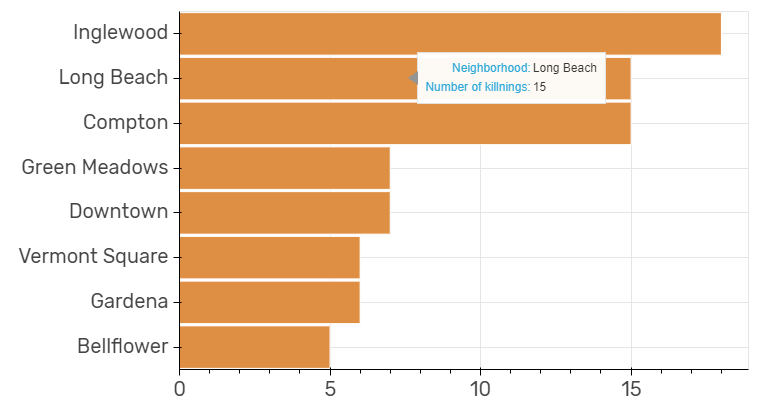
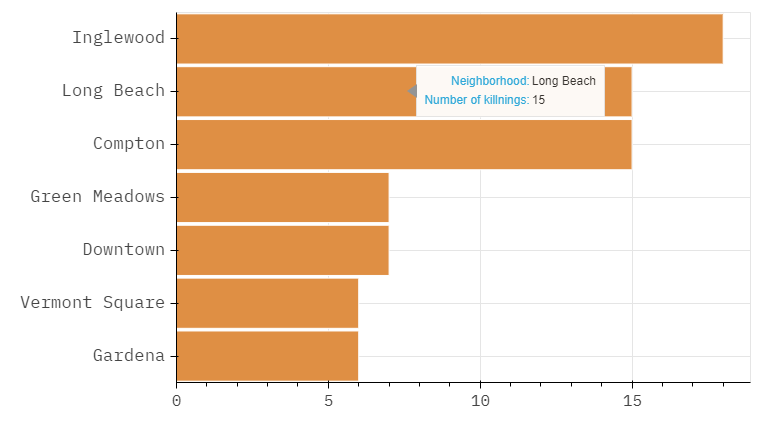
:tada: new bokeh plot post

diff --git a/content/today-i-learned-posts/bokeh-plots-embed/neighborhoods.html b/content/today-i-learned-posts/bokeh-plots-embed/neighborhoods.html
@@ -34,14 +34,14 @@
           
           
             
-              <div class="bk-root" id="43f9fee5-aa90-4d03-8cd5-edcdb8f7770a" data-root-id="3828"></div>
+              <div class="bk-root" id="4d2d932f-ab7c-42f8-bf9d-7b5592c7b0e7" data-root-id="5639"></div>
             
           
         
       
       
-        <script type="application/json" id="4161">
-          {"6f5ea0eb-4483-4d30-85d0-3cb9bc693733":{"roots":{"references":[{"attributes":{"below":[{"id":"3837"}],"center":[{"id":"3840"},{"id":"3843"}],"left":[{"id":"3841"}],"plot_height":400,"plot_width":750,"renderers":[{"id":"3861"}],"title":{"id":"3990"},"toolbar":{"id":"3851"},"toolbar_location":null,"x_range":{"id":"3829"},"x_scale":{"id":"3833"},"y_range":{"id":"3831"},"y_scale":{"id":"3835"}},"id":"3828","subtype":"Figure","type":"Plot"},{"attributes":{},"id":"3842","type":"CategoricalTicker"},{"attributes":{"data":{"index":["Bellflower","Gardena","Vermont Square","Downtown","Green Meadows","Compton","Long Beach","Inglewood"],"neighborhood":[5,6,6,7,7,15,15,18]},"selected":{"id":"1129"},"selection_policy":{"id":"1128"}},"id":"1002","type":"ColumnDataSource"},{"attributes":{"formatter":{"id":"3994"},"major_label_text_font":"Rubik","major_label_text_font_size":"15pt","ticker":{"id":"3838"}},"id":"3837","type":"LinearAxis"},{"attributes":{},"id":"3849","type":"HelpTool"},{"attributes":{"source":{"id":"1002"}},"id":"3862","type":"CDSView"},{"attributes":{"text":""},"id":"3990","type":"Title"},{"attributes":{"data_source":{"id":"1002"},"glyph":{"id":"3859"},"hover_glyph":null,"muted_glyph":null,"nonselection_glyph":{"id":"3860"},"selection_glyph":null,"view":{"id":"3862"}},"id":"3861","type":"GlyphRenderer"},{"attributes":{},"id":"1129","type":"Selection"},{"attributes":{"formatter":{"id":"3992"},"major_label_text_font":"Rubik","major_label_text_font_size":"15pt","ticker":{"id":"3842"}},"id":"3841","type":"CategoricalAxis"},{"attributes":{"start":0},"id":"3829","type":"DataRange1d"},{"attributes":{},"id":"3838","type":"BasicTicker"},{"attributes":{"factors":["Bellflower","Gardena","Vermont Square","Downtown","Green Meadows","Compton","Long Beach","Inglewood"]},"id":"3831","type":"FactorRange"},{"attributes":{"axis":{"id":"3841"},"dimension":1,"ticker":null},"id":"3843","type":"Grid"},{"attributes":{"fill_alpha":{"value":0.1},"fill_color":{"value":"#DF8F44"},"height":{"value":0.95},"line_alpha":{"value":0.1},"line_color":{"value":"white"},"right":{"field":"neighborhood"},"y":{"field":"index"}},"id":"3860","type":"HBar"},{"attributes":{},"id":"3992","type":"CategoricalTickFormatter"},{"attributes":{},"id":"3994","type":"BasicTickFormatter"},{"attributes":{},"id":"3845","type":"WheelZoomTool"},{"attributes":{"overlay":{"id":"3850"}},"id":"3846","type":"BoxZoomTool"},{"attributes":{"callback":null,"mode":"hline","tooltips":[["Neighborhood","@index"],["Number of killnings","@neighborhood"]]},"id":"3863","type":"HoverTool"},{"attributes":{},"id":"3848","type":"ResetTool"},{"attributes":{"bottom_units":"screen","fill_alpha":0.5,"fill_color":"lightgrey","left_units":"screen","level":"overlay","line_alpha":1.0,"line_color":"black","line_dash":[4,4],"line_width":2,"render_mode":"css","right_units":"screen","top_units":"screen"},"id":"3850","type":"BoxAnnotation"},{"attributes":{},"id":"1128","type":"UnionRenderers"},{"attributes":{"axis":{"id":"3837"},"ticker":null},"id":"3840","type":"Grid"},{"attributes":{},"id":"3833","type":"LinearScale"},{"attributes":{},"id":"3844","type":"PanTool"},{"attributes":{},"id":"3847","type":"SaveTool"},{"attributes":{"fill_color":{"value":"#DF8F44"},"height":{"value":0.95},"line_color":{"value":"white"},"right":{"field":"neighborhood"},"y":{"field":"index"}},"id":"3859","type":"HBar"},{"attributes":{},"id":"3835","type":"CategoricalScale"},{"attributes":{"active_drag":"auto","active_inspect":"auto","active_multi":null,"active_scroll":"auto","active_tap":"auto","tools":[{"id":"3844"},{"id":"3845"},{"id":"3846"},{"id":"3847"},{"id":"3848"},{"id":"3849"},{"id":"3863"}]},"id":"3851","type":"Toolbar"}],"root_ids":["3828"]},"title":"Bokeh Application","version":"2.0.2"}}
+        <script type="application/json" id="6017">
+          {"92e22679-9980-4f89-a33d-907d8681f93e":{"roots":{"references":[{"attributes":{"below":[{"id":"5648"}],"center":[{"id":"5651"},{"id":"5654"}],"left":[{"id":"5652"}],"plot_height":400,"plot_width":750,"renderers":[{"id":"5672"}],"title":{"id":"5846"},"toolbar":{"id":"5662"},"toolbar_location":null,"x_range":{"id":"5640"},"x_scale":{"id":"5644"},"y_range":{"id":"5642"},"y_scale":{"id":"5646"}},"id":"5639","subtype":"Figure","type":"Plot"},{"attributes":{"start":0},"id":"5640","type":"DataRange1d"},{"attributes":{},"id":"5644","type":"LinearScale"},{"attributes":{},"id":"5660","type":"HelpTool"},{"attributes":{"data":{"index":["Gardena","Vermont Square","Downtown","Green Meadows","Compton","Long Beach","Inglewood"],"neighborhood":[6,6,7,7,15,15,18]},"selected":{"id":"5854"},"selection_policy":{"id":"5853"}},"id":"5637","type":"ColumnDataSource"},{"attributes":{"axis":{"id":"5648"},"ticker":null},"id":"5651","type":"Grid"},{"attributes":{},"id":"5853","type":"UnionRenderers"},{"attributes":{"overlay":{"id":"5661"}},"id":"5657","type":"BoxZoomTool"},{"attributes":{"axis":{"id":"5652"},"dimension":1,"ticker":null},"id":"5654","type":"Grid"},{"attributes":{"fill_alpha":{"value":0.1},"fill_color":{"value":"#DF8F44"},"height":{"value":0.95},"line_alpha":{"value":0.1},"line_color":{"value":"white"},"right":{"field":"neighborhood"},"y":{"field":"index"}},"id":"5671","type":"HBar"},{"attributes":{"formatter":{"id":"5850"},"major_label_text_font":"IBM Plex Mono","major_label_text_font_size":"12pt","ticker":{"id":"5649"}},"id":"5648","type":"LinearAxis"},{"attributes":{"data_source":{"id":"5637"},"glyph":{"id":"5670"},"hover_glyph":null,"muted_glyph":null,"nonselection_glyph":{"id":"5671"},"selection_glyph":null,"view":{"id":"5673"}},"id":"5672","type":"GlyphRenderer"},{"attributes":{},"id":"5658","type":"SaveTool"},{"attributes":{"text":""},"id":"5846","type":"Title"},{"attributes":{"bottom_units":"screen","fill_alpha":0.5,"fill_color":"lightgrey","left_units":"screen","level":"overlay","line_alpha":1.0,"line_color":"black","line_dash":[4,4],"line_width":2,"render_mode":"css","right_units":"screen","top_units":"screen"},"id":"5661","type":"BoxAnnotation"},{"attributes":{},"id":"5656","type":"WheelZoomTool"},{"attributes":{"factors":["Gardena","Vermont Square","Downtown","Green Meadows","Compton","Long Beach","Inglewood"]},"id":"5642","type":"FactorRange"},{"attributes":{},"id":"5659","type":"ResetTool"},{"attributes":{},"id":"5649","type":"BasicTicker"},{"attributes":{"fill_color":{"value":"#DF8F44"},"height":{"value":0.95},"line_color":{"value":"white"},"right":{"field":"neighborhood"},"y":{"field":"index"}},"id":"5670","type":"HBar"},{"attributes":{},"id":"5848","type":"CategoricalTickFormatter"},{"attributes":{},"id":"5653","type":"CategoricalTicker"},{"attributes":{},"id":"5850","type":"BasicTickFormatter"},{"attributes":{},"id":"5655","type":"PanTool"},{"attributes":{"source":{"id":"5637"}},"id":"5673","type":"CDSView"},{"attributes":{"callback":null,"mode":"hline","tooltips":[["Neighborhood","@index"],["Number of killnings","@neighborhood"]]},"id":"5674","type":"HoverTool"},{"attributes":{},"id":"5854","type":"Selection"},{"attributes":{"formatter":{"id":"5848"},"major_label_text_font":"IBM Plex Mono","major_label_text_font_size":"13pt","ticker":{"id":"5653"}},"id":"5652","type":"CategoricalAxis"},{"attributes":{},"id":"5646","type":"CategoricalScale"},{"attributes":{"active_drag":"auto","active_inspect":"auto","active_multi":null,"active_scroll":"auto","active_tap":"auto","tools":[{"id":"5655"},{"id":"5656"},{"id":"5657"},{"id":"5658"},{"id":"5659"},{"id":"5660"},{"id":"5674"}]},"id":"5662","type":"Toolbar"}],"root_ids":["5639"]},"title":"Bokeh Application","version":"2.0.2"}}
         </script>
         <script type="text/javascript">
           (function() {
@@ -50,8 +50,8 @@
                 (function(root) {
                   function embed_document(root) {
                     
-                  var docs_json = document.getElementById('4161').textContent;
-                  var render_items = [{"docid":"6f5ea0eb-4483-4d30-85d0-3cb9bc693733","root_ids":["3828"],"roots":{"3828":"43f9fee5-aa90-4d03-8cd5-edcdb8f7770a"}}];
+                  var docs_json = document.getElementById('6017').textContent;
+                  var render_items = [{"docid":"92e22679-9980-4f89-a33d-907d8681f93e","root_ids":["5639"],"roots":{"5639":"4d2d932f-ab7c-42f8-bf9d-7b5592c7b0e7"}}];
                   root.Bokeh.embed.embed_items(docs_json, render_items);
                 
                   }

diff --git a/content/today-i-learned-posts/bokeh-plots-embed/index.md b/content/today-i-learned-posts/bokeh-plots-embed/index.md
@@ -1,24 +1,24 @@
 ---
-title: Bar plots in `Bokeh` and maps with `plotly` in Python + how to embed them
+title: Bar plots in `Bokeh` & How to Embed Them
 author: ''
-date: '2020-06-15'
-categories: [100DaysOfCode, python, bokeh, mapbox, plotly]
-tags: [100DaysOfCode, python, bokeh, mapbox, plotly]
-summary: 'Creating my first simple `bokeh` bar plot-- an interactive version of my plot of the neighborhoods where law enforcement in L.A. County killed the most Black people.'
+date: '2020-06-16'
+categories: [100DaysOfCode, python, bokeh]
+tags: [100DaysOfCode, python, bokeh, L.A. police killings]
+summary: 'Creating my first simple `bokeh` bar plot-- an interactive version of my plot of the [neighborhoods where law enforcement in L.A. County killed the most Black people](/blog/los-angeles-police-killings/#full-graphic).'
 reading_time: yes
 image:
   caption: ''
   focal_point: ''
   preview_only: true
 type: today-i-learned
-draft: true
+draft: false
 ---
+This is my second TIL post about exploring the Los Angeles Times' database of police killings in L.A. County. My first one was about [mapping where each Black person who was killed by police in L.A. County died](/today-i-learned-posts/plotly-mapbox-python-embed/). In my main [blog post](/blog/los-angeles-police-killings) I wanted to learn more about the Black and Latino communities that have been disproportionately affected by police violence and made a [simple graphic](/blog/los-angeles-police-killings/#full-graphic) about it. 
 
-Last week I was exploring the Los Angeles Times' database of police killings in L.A. County, trying to learn more about the Black and Latino communities that have been disproportionately affected by police violence based on data since 2000. I made a simple graphic about it that you can find in my [blog post](/blog/los-angeles-police-killings).
-
-I also used that data to practice some EDA and data visualization in python. I
-<iframe width="850" height="400" frameborder="0" scrolling="no" src="//plotly.com/~isabella-b/1.embed"></iframe>
-<iframe src="/blog/los-angeles-police-killings/lines.html"
+To try out a simple chart for my first experience with `Bokeh`, I decided to recreate this horizontal bar chart I made for the graphic of my main post:
+{{< figure src="neighborhoods.png" title="" lightbox="true" >}}
+Hover to see the count:
+<iframe src="/today-i-learned-posts/bokeh-plots-embed/neighborhoods.html"
     sandbox="allow-same-origin allow-scripts"
     width="100%"
     height="500"
@@ -27,4 +27,79 @@ I also used that data to practice some EDA and data visualization in python. I
     frameborder="0">
 </iframe>
 
-[test](/blog/los-angeles-police-killings/lines.html)
+Creating this required one step before making the plot itself. Since this is a horizontal bar chart, we need to make a list of factors to pass into the categorical x-axis with the argument `y_range`. This DataFrame is my source for the plot:    
+```
+top_neighborhoods = killings_data[killings_data.race == 'black'].neighborhood.value_counts().head(7).to_frame().sort_values(by='neighborhood', ascending=True)
+```
+
+{{< figure src="df-neighborhoods.png" title="" lightbox="true" >}}
+
+To make the list of categorical factors we use `ColumnDataSource()` from `bokeh.models` and `tolist()`:
+```
+from bokeh.models import ColumnDataSource
+source = ColumnDataSource(data=top_neighborhoods)
+neighborhoods = source.data['index'].tolist()
+```
+Now we can make the plot. Here are the necessary imports and comments describing them:
+```
+from bokeh.plotting import figure, show, output_file # output_file = output as HTML
+from bokeh.models.tools import HoverTool # for hover tooltip
+from bokeh.models import Axis            # for axis settings
+from bokeh.io import output_notebook     # optional: to output in notebook
+```
+Create the figure with `figure()` and set the plot dimensions, the y categorical values using the created list, and optionally remove the toolbar:
+```
+output_notebook() # optional: show the output in the notebook
+p = figure(plot_width=750, plot_height=400, 
+            y_range = neighborhoods, # use the list as the range of y values
+            toolbar_location=None)   # remove the toolbar since it isn't needed for this plot
+```
+Create the plot by defining the following:   
+`source` - the `source` object we made with `ColumnDataSource()`    
+`y` - the categorical y variable    
+`right` - the numeric x variable    
+`height` - height of the bars, a value between 0 and 1    
+`line_color` - color of the outline of the bars    
+`color` - color of the bars
+```
+# create the horizontal bar chart
+p.hbar(y='index', right='neighborhood', source=source, height=0.95, line_color='white', color ="#DF8F44")
+```
+The following are the optional hover and style settings for this plot with their purposes commented:
+```
+p.x_range.start = 0  # start value of the x-axis
+hover = HoverTool()  # initiate hover tool
+hover.tooltips = [("Neighborhood","@index"),   ## define the content of the hover tooltip
+                   ("Number of killnings","@neighborhood")]
+hover.mode = 'hline' # set the mode of the hover tool
+p.add_tools(hover)   # add the hover tooltip to the plot
+# style the plot
+p.xaxis.major_label_text_font = 'IBM Plex Mono'
+p.xaxis.major_label_text_font_size = '12pt'
+p.yaxis.major_label_text_font = 'IBM Plex Mono'
+p.yaxis.major_label_text_font_size = '13pt'
+# output the HTML file
+output_file("neighborhoods.html", title='Neighborhoods with the most Black police killings')
+show(p) # show in notebook
+```
+The output `neighborhoods.html` that was created should pop up in your browser and be saved in your directory. This is the file we'll use to embed the plot.
+
+## Embed the plot
+I believe there are different ways you can embed `Bokeh` plots to websites, but the approach I took since I found it the simplest was to host the created `neighborhoods.html` on my site (you can visit it [here](/today-i-learned-posts/bokeh-plots-embed/neighborhoods.html)), then use that as the source of the `<iframe>` to embed the plot.
+
+Steps: 
+1. Host the HTML file somewhere like GitHub pages (free) or your another site of yours.
+2. Copy its path and plug it into the `src` of an `<iframe>` tag:
+```
+<iframe src="/today-i-learned-posts/bokeh-plots-embed/neighborhoods.html"
+    sandbox="allow-same-origin allow-scripts"
+    width="100%"
+    height="500"
+    scrolling="no"
+    seamless="seamless"
+    frameborder="0">
+</iframe>
+```
+Now you can use the `<iframe>` to embed your interactive `Bokeh` visualization on any website! 
+
+I hope you found this helpful. If you have any questions, feel free to comment below or [tweet/DM me](https://twitter.com/_isabellamb).

diff --git a/content/today-i-learned-posts/plotly-mapbox-python-embed/index.md b/content/today-i-learned-posts/plotly-mapbox-python-embed/index.md
@@ -1,5 +1,5 @@
 ---
-title: Scatter Plots on Mapbox with `plotly` Express in Python + How to Embed Them
+title: Scatter Plots on Mapbox with `plotly` Express in Python & How to Embed Them
 author: ''
 date: '2020-06-15'
 categories: [100DaysOfCode, python, mapbox, plotly]
@@ -76,6 +76,6 @@ py.plot(fig, filename = 'file-name', auto_open=True)
 ```
 Running that should open the plot in Chart Studio in your browser. In the bottom right there is an <i class="fas fa-code"></i> icon where `plotly` provides the code to the `<iframe>` you can use. 
 
-Now you can use the `<iframe>` to embed your interactive plotly visualization on any website! 
+Now you can use the `<iframe>` to embed your interactive `plotly` visualization on any website! 
 
 I hope you found this helpful. If you have any questions, feel free to comment below or [tweet/DM me](https://twitter.com/_isabellamb).

diff --git a/content/blog/los-angeles-police-killings/index.md b/content/blog/los-angeles-police-killings/index.md
@@ -2,7 +2,7 @@
 title: "Who is being killed by local police in Los Angeles County?"
 summary: "The [Los Angeles Times](https://www.latimes.com/) recently released their [database](https://github.com/datadesk/los-angeles-police-killings-data) of people who died at the hands of police in L.A. County since 2000. After reading their [article](https://www.latimes.com/projects/los-angeles-police-killings-database/) about it, I wanted to learn a little more about the two communities affected the most, particularly the Black community."
 authors: []
-tags: [data visualizations, rstats, ggplot2]
+tags: [data visualizations, rstats, ggplot2, L.A. police killings]
 categories: [data visualizations, rstats, ggplot2]
 date: "2020-06-13"
 
